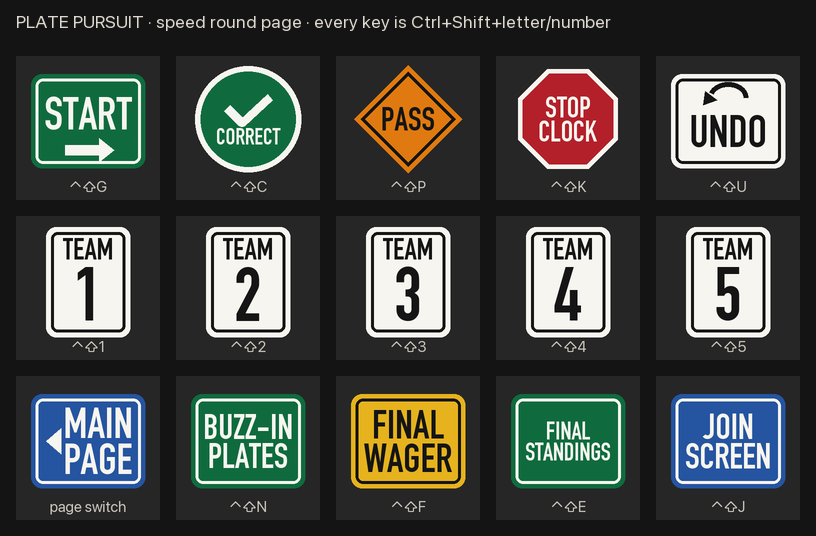
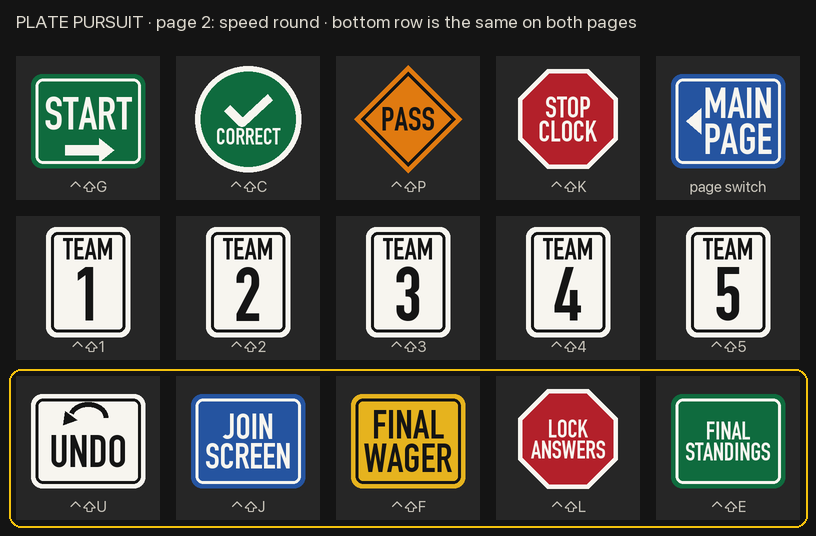
Deck: same bottom row on both pages, page switch top-right, redone main page with Double Points (Ctrl+Shift+D)

Changed region(s): [[0.0, 0.6866, 1.0, 0.9851], [0.7966, 0.1194, 0.9804, 0.3582], [0.1838, 0.0299, 0.7966, 0.0597]]

diff --git a/deck/index.html b/deck/index.html
@@ -1,6 +1,6 @@
 <!doctype html>
 <html lang="en"><head><meta charset="utf-8"><meta name="viewport" content="width=device-width, initial-scale=1">
-<title>Plate Pursuit · Stream deck</title><link rel="stylesheet" href="../style.css?v=26">
+<title>Plate Pursuit · Stream deck</title><link rel="stylesheet" href="../style.css?v=27">
 <style>
 body { background: var(--asphalt); color: #f2efe6; margin: 0; font-family: var(--font); }
 main { max-width: 1000px; margin: 0 auto; padding: 24px 16px 48px; }
@@ -9,33 +9,27 @@ p, li { line-height: 1.5; color: #d8d4c8; } a { color: var(--yellow); }
 .grid { display: grid; grid-template-columns: repeat(5, minmax(0, 1fr)); gap: 12px; }
 @media (max-width: 760px) { .grid { grid-template-columns: repeat(3, minmax(0, 1fr)); } }
 figure { margin: 0; background: rgba(255,255,255,.05); border-radius: 10px; padding: 10px; }
+figure.shared { box-shadow: inset 0 0 0 2px rgba(244,194,13,.6); }
 figure img { width: 100%; height: auto; display: block; border-radius: 8px; }
 figcaption { display: grid; gap: 4px; margin-top: 8px; font-size: 13px; color: #c9c4b8; }
 kbd { font: 800 13px var(--font); color: #fff; }
 </style></head>
 <body><main>
-<h1>Stream deck layout (5 × 3)</h1>
-<h2 style="margin-top:6px">Page 1: main</h2>
-<p>For the VSD Craft deck: 15 buttons on one page, laid out exactly like this grid. Every button sends <b>Ctrl + Shift + a letter</b>. The keys work when the control page <i>or</i> the projector window is in front (on the same computer), and you can also press them by hand.</p>
-<div class="grid"><figure><img src="go.png" alt="GO" width="144" height="144"><figcaption><kbd>Ctrl+Shift+G</kbd><span>The next step, whatever it is: show the plate and start the clock, reopen buzzers, show the next answer piece, show the next team's final answer, or go to the next plate.</span></figcaption></figure><figure><img src="correct.png" alt="CORRECT" width="144" height="144"><figcaption><kbd>Ctrl+Shift+C</kbd><span>The team that buzzed is right (also counts a plate in the speed round).</span></figcaption></figure><figure><img src="wrong.png" alt="WRONG" width="144" height="144"><figcaption><kbd>Ctrl+Shift+X</kbd><span>The team that buzzed is wrong.</span></figcaption></figure><figure><img src="reopen.png" alt="REOPEN BUZZERS" width="144" height="144"><figcaption><kbd>Ctrl+Shift+O</kbd><span>Open buzzers again after a wrong answer.</span></figcaption></figure><figure><img src="undo.png" alt="UNDO" width="144" height="144"><figcaption><kbd>Ctrl+Shift+U</kbd><span>Take back the last action.</span></figcaption></figure><figure><img src="next.png" alt="NEXT PLATE" width="144" height="144"><figcaption><kbd>Ctrl+Shift+N</kbd><span>Skip straight to the next plate.</span></figcaption></figure><figure><img src="reveal.png" alt="REVEAL ANSWER" width="144" height="144"><figcaption><kbd>Ctrl+Shift+R</kbd><span>Show the answer with no points (nobody got it).</span></figcaption></figure><figure><img src="whole.png" alt="WHOLE ANSWER" width="144" height="144"><figcaption><kbd>Ctrl+Shift+W</kbd><span>Show the whole answer at once instead of piece by piece.</span></figcaption></figure><figure><img src="pass.png" alt="PASS" width="144" height="144"><figcaption><kbd>Ctrl+Shift+P</kbd><span>Speed round: skip this plate.</span></figcaption></figure><figure><img src="speed.png" alt="SPEED ROUND" width="144" height="144"><figcaption><kbd>Ctrl+Shift+S</kbd><span>On the deck: open the speed round page (below). As a key, it sets up the speed round for the team picked under Rounds.</span></figcaption></figure><figure><img src="join.png" alt="JOIN SCREEN" width="144" height="144"><figcaption><kbd>Ctrl+Shift+J</kbd><span>Put the join screen (QR code) back on the projector.</span></figcaption></figure><figure><img src="final.png" alt="FINAL WAGER" width="144" height="144"><figcaption><kbd>Ctrl+Shift+F</kbd><span>Start the final wager plate.</span></figcaption></figure><figure><img src="lock.png" alt="LOCK ANSWERS" width="144" height="144"><figcaption><kbd>Ctrl+Shift+L</kbd><span>Final plate: stop answers now.</span></figcaption></figure><figure><img src="tie.png" alt="TIE- BREAKER" width="144" height="144"><figcaption><kbd>Ctrl+Shift+T</kbd><span>Tie-breaker plate (when teams are tied for first).</span></figcaption></figure><figure><img src="standings.png" alt="FINAL STANDINGS" width="144" height="144"><figcaption><kbd>Ctrl+Shift+E</kbd><span>Show the final standings.</span></figcaption></figure></div>
+<h1>Stream deck layout (5 × 3, two pages)</h1>
+<p>For the VSD Craft deck. Every button sends <b>Ctrl + Shift + a letter or number</b>, which works when the control page <i>or</i> the projector window is in front (same computer). The <b>bottom row is the same on both pages</b> (outlined in yellow), and the page-switch button is in the top-right corner of both.</p>
+<h2>Page 1: main</h2><div class="grid"><figure class=""><img src="go.png" alt="" width="144" height="144"><figcaption><kbd>Ctrl+Shift+G</kbd><span>The next step, whatever it is: show the plate and start the clock, reopen buzzers, show the next answer piece, show the next team's final answer, or go to the next plate.</span></figcaption></figure><figure class=""><img src="correct.png" alt="" width="144" height="144"><figcaption><kbd>Ctrl+Shift+C</kbd><span>Right answer (in the speed round: counts the plate and brings up the next).</span></figcaption></figure><figure class=""><img src="wrong.png" alt="" width="144" height="144"><figcaption><kbd>Ctrl+Shift+X</kbd><span>The team that buzzed is wrong.</span></figcaption></figure><figure class=""><img src="reopen.png" alt="" width="144" height="144"><figcaption><kbd>Ctrl+Shift+O</kbd><span>Open buzzers again after a wrong answer.</span></figcaption></figure><figure class=""><img src="speedpage.png" alt="" width="144" height="144"><figcaption><kbd>Page switch</kbd><span>Opens page 2, the speed round. (VSD Craft page switch, not a key.)</span></figcaption></figure><figure class=""><img src="next.png" alt="" width="144" height="144"><figcaption><kbd>Ctrl+Shift+N</kbd><span>Skip straight to the next plate.</span></figcaption></figure><figure class=""><img src="reveal.png" alt="" width="144" height="144"><figcaption><kbd>Ctrl+Shift+R</kbd><span>Show the answer with no points.</span></figcaption></figure><figure class=""><img src="whole.png" alt="" width="144" height="144"><figcaption><kbd>Ctrl+Shift+W</kbd><span>Show the whole answer at once instead of piece by piece.</span></figcaption></figure><figure class=""><img src="double.png" alt="" width="144" height="144"><figcaption><kbd>Ctrl+Shift+D</kbd><span>Double points on or off for the plate that's up.</span></figcaption></figure><figure class=""><img src="tie.png" alt="" width="144" height="144"><figcaption><kbd>Ctrl+Shift+T</kbd><span>Tie-breaker plate (when teams are tied for first).</span></figcaption></figure><figure class="shared"><img src="undo.png" alt="" width="144" height="144"><figcaption><kbd>Ctrl+Shift+U</kbd><span>Take back the last action.</span></figcaption></figure><figure class="shared"><img src="join.png" alt="" width="144" height="144"><figcaption><kbd>Ctrl+Shift+J</kbd><span>Join screen (QR code) on the projector.</span></figcaption></figure><figure class="shared"><img src="final.png" alt="" width="144" height="144"><figcaption><kbd>Ctrl+Shift+F</kbd><span>Start the final wager plate.</span></figcaption></figure><figure class="shared"><img src="lock.png" alt="" width="144" height="144"><figcaption><kbd>Ctrl+Shift+L</kbd><span>Final plate: stop answers now.</span></figcaption></figure><figure class="shared"><img src="standings.png" alt="" width="144" height="144"><figcaption><kbd>Ctrl+Shift+E</kbd><span>Show the final standings.</span></figcaption></figure></div>
 <h2>Page 2: speed round</h2>
-<p>A separate page for the speed round. Pick the team, press START, then CORRECT or PASS for each plate. MAIN PAGE takes you back.</p>
-<div class="grid"><figure><img src="start.png" alt="START" width="144" height="144"><figcaption><kbd>Ctrl+Shift+G</kbd><span>Start the 60 seconds (after picking a team below).</span></figcaption></figure><figure><img src="correct.png" alt="CORRECT" width="144" height="144"><figcaption><kbd>Ctrl+Shift+C</kbd><span>They got this plate; the next one comes up.</span></figcaption></figure><figure><img src="pass.png" alt="PASS" width="144" height="144"><figcaption><kbd>Ctrl+Shift+P</kbd><span>Skip this plate.</span></figcaption></figure><figure><img src="stopclock.png" alt="STOP CLOCK" width="144" height="144"><figcaption><kbd>Ctrl+Shift+K</kbd><span>End the speed round early.</span></figcaption></figure><figure><img src="undo.png" alt="UNDO" width="144" height="144"><figcaption><kbd>Ctrl+Shift+U</kbd><span>Take back the last action.</span></figcaption></figure><figure><img src="team1.png" alt="TEAM 1" width="144" height="144"><figcaption><kbd>Ctrl+Shift+1</kbd><span>Set up the speed round for team 1 (in the order of the Teams list on the control page).</span></figcaption></figure><figure><img src="team2.png" alt="TEAM 2" width="144" height="144"><figcaption><kbd>Ctrl+Shift+2</kbd><span>Set up the speed round for team 2 (in the order of the Teams list on the control page).</span></figcaption></figure><figure><img src="team3.png" alt="TEAM 3" width="144" height="144"><figcaption><kbd>Ctrl+Shift+3</kbd><span>Set up the speed round for team 3 (in the order of the Teams list on the control page).</span></figcaption></figure><figure><img src="team4.png" alt="TEAM 4" width="144" height="144"><figcaption><kbd>Ctrl+Shift+4</kbd><span>Set up the speed round for team 4 (in the order of the Teams list on the control page).</span></figcaption></figure><figure><img src="team5.png" alt="TEAM 5" width="144" height="144"><figcaption><kbd>Ctrl+Shift+5</kbd><span>Set up the speed round for team 5 (in the order of the Teams list on the control page).</span></figcaption></figure><figure><img src="back.png" alt="MAIN PAGE" width="144" height="144"><figcaption><kbd>Page switch</kbd><span>Go back to the main page of the deck (a VSD Craft page switch, not a key).</span></figcaption></figure><figure><img src="buzzin.png" alt="BUZZ-IN PLATES" width="144" height="144"><figcaption><kbd>Ctrl+Shift+N</kbd><span>Back to the buzz-in plates.</span></figcaption></figure><figure><img src="final.png" alt="FINAL WAGER" width="144" height="144"><figcaption><kbd>Ctrl+Shift+F</kbd><span>Start the final wager plate.</span></figcaption></figure><figure><img src="standings.png" alt="FINAL STANDINGS" width="144" height="144"><figcaption><kbd>Ctrl+Shift+E</kbd><span>Show the final standings.</span></figcaption></figure><figure><img src="join.png" alt="JOIN SCREEN" width="144" height="144"><figcaption><kbd>Ctrl+Shift+J</kbd><span>Join screen on the projector.</span></figcaption></figure></div>
+<p>Pick the team, press START, then CORRECT or PASS for each plate. MAIN PAGE goes back.</p><div class="grid"><figure class=""><img src="start.png" alt="" width="144" height="144"><figcaption><kbd>Ctrl+Shift+G</kbd><span>Start the 60 seconds (after picking the team).</span></figcaption></figure><figure class=""><img src="correct.png" alt="" width="144" height="144"><figcaption><kbd>Ctrl+Shift+C</kbd><span>Right answer (in the speed round: counts the plate and brings up the next).</span></figcaption></figure><figure class=""><img src="pass.png" alt="" width="144" height="144"><figcaption><kbd>Ctrl+Shift+P</kbd><span>Skip this plate.</span></figcaption></figure><figure class=""><img src="stopclock.png" alt="" width="144" height="144"><figcaption><kbd>Ctrl+Shift+K</kbd><span>End the speed round early.</span></figcaption></figure><figure class=""><img src="back.png" alt="" width="144" height="144"><figcaption><kbd>Page switch</kbd><span>Back to page 1. (VSD Craft page switch, not a key.)</span></figcaption></figure><figure class=""><img src="team1.png" alt="" width="144" height="144"><figcaption><kbd>Ctrl+Shift+1</kbd><span>Set up the speed round for team 1: the 1st team in the control page's Teams list.</span></figcaption></figure><figure class=""><img src="team2.png" alt="" width="144" height="144"><figcaption><kbd>Ctrl+Shift+2</kbd><span>Set up the speed round for team 2: the 2nd team in the control page's Teams list.</span></figcaption></figure><figure class=""><img src="team3.png" alt="" width="144" height="144"><figcaption><kbd>Ctrl+Shift+3</kbd><span>Set up the speed round for team 3: the 3rd team in the control page's Teams list.</span></figcaption></figure><figure class=""><img src="team4.png" alt="" width="144" height="144"><figcaption><kbd>Ctrl+Shift+4</kbd><span>Set up the speed round for team 4: the 4th team in the control page's Teams list.</span></figcaption></figure><figure class=""><img src="team5.png" alt="" width="144" height="144"><figcaption><kbd>Ctrl+Shift+5</kbd><span>Set up the speed round for team 5: the 5th team in the control page's Teams list.</span></figcaption></figure><figure class="shared"><img src="undo.png" alt="" width="144" height="144"><figcaption><kbd>Ctrl+Shift+U</kbd><span>Take back the last action.</span></figcaption></figure><figure class="shared"><img src="join.png" alt="" width="144" height="144"><figcaption><kbd>Ctrl+Shift+J</kbd><span>Join screen (QR code) on the projector.</span></figcaption></figure><figure class="shared"><img src="final.png" alt="" width="144" height="144"><figcaption><kbd>Ctrl+Shift+F</kbd><span>Start the final wager plate.</span></figcaption></figure><figure class="shared"><img src="lock.png" alt="" width="144" height="144"><figcaption><kbd>Ctrl+Shift+L</kbd><span>Final plate: stop answers now.</span></figcaption></figure><figure class="shared"><img src="standings.png" alt="" width="144" height="144"><figcaption><kbd>Ctrl+Shift+E</kbd><span>Show the final standings.</span></figcaption></figure></div>
 <h2>Download</h2>
-<p><a href="layout.png" download>layout.png</a> (main page) · <a href="layout-speed.png" download>layout-speed.png</a> (speed round page)</p>
-<p>Icons: <a href="go.png" download>go.png</a> · <a href="correct.png" download>correct.png</a> · <a href="wrong.png" download>wrong.png</a> · <a href="reopen.png" download>reopen.png</a> · <a href="undo.png" download>undo.png</a> · <a href="next.png" download>next.png</a> · <a href="reveal.png" download>reveal.png</a> · <a href="whole.png" download>whole.png</a> · <a href="pass.png" download>pass.png</a> · <a href="speed.png" download>speed.png</a> · <a href="join.png" download>join.png</a> · <a href="final.png" download>final.png</a> · <a href="lock.png" download>lock.png</a> · <a href="tie.png" download>tie.png</a> · <a href="standings.png" download>standings.png</a> · <a href="start.png" download>start.png</a> · <a href="stopclock.png" download>stopclock.png</a> · <a href="team1.png" download>team1.png</a> · <a href="team2.png" download>team2.png</a> · <a href="team3.png" download>team3.png</a> · <a href="team4.png" download>team4.png</a> · <a href="team5.png" download>team5.png</a> · <a href="back.png" download>back.png</a> · <a href="buzzin.png" download>buzzin.png</a></p>
-<h2>Set up each button in VSD Craft</h2>
+<p><a href="layout.png" download>layout.png</a> (page 1) · <a href="layout-speed.png" download>layout-speed.png</a> (page 2)</p>
+<p>Icons: <a href="back.png" download>back.png</a> · <a href="correct.png" download>correct.png</a> · <a href="double.png" download>double.png</a> · <a href="final.png" download>final.png</a> · <a href="go.png" download>go.png</a> · <a href="join.png" download>join.png</a> · <a href="lock.png" download>lock.png</a> · <a href="next.png" download>next.png</a> · <a href="pass.png" download>pass.png</a> · <a href="reopen.png" download>reopen.png</a> · <a href="reveal.png" download>reveal.png</a> · <a href="speedpage.png" download>speedpage.png</a> · <a href="standings.png" download>standings.png</a> · <a href="start.png" download>start.png</a> · <a href="stopclock.png" download>stopclock.png</a> · <a href="team1.png" download>team1.png</a> · <a href="team2.png" download>team2.png</a> · <a href="team3.png" download>team3.png</a> · <a href="team4.png" download>team4.png</a> · <a href="team5.png" download>team5.png</a> · <a href="tie.png" download>tie.png</a> · <a href="undo.png" download>undo.png</a> · <a href="whole.png" download>whole.png</a> · <a href="wrong.png" download>wrong.png</a></p>
+<h2>Set it up in VSD Craft</h2>
 <ol>
-<li>Drag the <b>Hotkey</b> action onto the button (it's in the System group).</li>
-<li>Click the hotkey box and press the combination shown above, for example <b>Ctrl + Shift + G</b> for GO. On a Mac that's the <b>Control</b> key, not Command.</li>
-<li>Click the button's icon and choose the matching PNG from this page.</li>
+<li>For each key button: drag the <b>Hotkey</b> action onto it (System group), click the hotkey box and press the combination shown, e.g. <b>Ctrl + Shift + G</b>. On a Mac that's the <b>Control</b> key, not Command.</li>
+<li>Click the button's icon and choose the matching PNG.</li>
+<li>Make page 2 (a new page or folder in VSD Craft). On page 1, set the top-right <b>SPEED ROUND</b> button to open it; on page 2, set the top-right <b>MAIN PAGE</b> button to go back.</li>
+<li>Copy the bottom row from page 1 to page 2 so they match exactly.</li>
 </ol>
-<h2>Link the two pages</h2>
-<ol>
-<li>On page 1, make the <b>SPEED ROUND</b> button open a new page or folder (VSD Craft's page or folder action) instead of a hotkey, and give it the speed-round icon.</li>
-<li>Set up page 2 like the grid above. The <b>MAIN PAGE</b> button is VSD Craft's "back" / page-switch action, so it doesn't need a key.</li>
-<li>The TEAM buttons send Ctrl + Shift + 1 to 5. Team 1 is the top team in the control page's Teams list (the number on its button there).</li>
-</ol>
-<p>Then click into the control page (or the projector window) once, so the browser is the app in front, and the buttons will run the game.</p>
+<p>Then click into the control page (or projector window) once, so the browser is in front, and the buttons run the game.</p>
 <p><a href="../host.html">Back to the control page</a></p>
 </main></body></html>

diff --git a/host.html b/host.html
@@ -4,7 +4,7 @@
 <meta charset="utf-8">
 <meta name="viewport" content="width=device-width, initial-scale=1">
 <title>Plate Pursuit · Host</title>
-<link rel="stylesheet" href="style.css?v=26">
+<link rel="stylesheet" href="style.css?v=27">
 </head>
 <body class="host-page">
 <div class="host">
@@ -92,15 +92,16 @@
       <div><kbd>⌃⇧T</kbd> tie-breaker plate</div>
       <div><kbd>⌃⇧E</kbd> final standings</div>
       <div><kbd>⌃⇧1</kbd>–<kbd>⌃⇧5</kbd> set up the speed round for team 1–5 (order of the Teams list)</div>
-      <div><kbd>⌃⇧K</kbd> stop the speed-round clock</div></div>
+      <div><kbd>⌃⇧K</kbd> stop the speed-round clock</div>
+      <div><kbd>⌃⇧D</kbd> double points on or off for the plate that's up</div></div>
   </div>
 </div>
 
-<script src="mode.js?v=26"></script>
+<script src="mode.js?v=27"></script>
 <script src="https://cdn.jsdelivr.net/npm/mqtt@5.10.1/dist/mqtt.min.js"></script>
-<script src="engine.js?v=26"></script>
-<script src="states.js?v=26"></script>
-<script src="shared.js?v=26"></script>
+<script src="engine.js?v=27"></script>
+<script src="states.js?v=27"></script>
+<script src="shared.js?v=27"></script>
 <script>
 const $ = id => document.getElementById(id);
 const act = PP.act;
@@ -300,6 +301,7 @@ function goStep(s) {   // the one-button "next step"
 function runKey(name) {
   const s = PP.state; if (!s || !name) return;
   if (name === 'go') goStep(s);
+  else if (name === 'double') { if (s.cur != null) act('toggleDouble', { index: s.cur }); }   // the plate up now
   else if (name === 'speed') { if ($('speedTeam').value) act('speedReady', { teamId: $('speedTeam').value }); }
   else if (/^speed\d$/.test(name)) {   // speed round for team 1–5 (in the order of the Teams list)
     const t = s.teams[Number(name.slice(5)) - 1]; if (!t) return;

diff --git a/index.html b/index.html
@@ -1,8 +1,8 @@
 <!doctype html>
 <html lang="en"><head><meta charset="utf-8"><meta name="viewport" content="width=device-width, initial-scale=1">
-<title>Plate Pursuit</title><link rel="stylesheet" href="style.css?v=26"></head>
+<title>Plate Pursuit</title><link rel="stylesheet" href="style.css?v=27"></head>
 <body class="landing-page"><div class="landing"><div>
-<div class="plate-wrap"><script src="mode.js?v=26"></script><script src="shared.js?v=26"></script><script>document.write(plateHTML('PL8 PRST', {bottom:'CRACK THE CODE'}))</script></div>
+<div class="plate-wrap"><script src="mode.js?v=27"></script><script src="shared.js?v=27"></script><script>document.write(plateHTML('PL8 PRST', {bottom:'CRACK THE CODE'}))</script></div>
 <p>Open <b>Host</b> on the laptop, then click <b>Open projector window</b> there and drag it to the big screen. Players scan the QR code on the projector to join on their phones.</p>
 <div class="row"><a class="btn primary" href="host.html">Host</a><a class="btn gold" href="display.html">Projector</a><a class="btn" href="play.html">Phone buzzer</a><a class="btn" href="stage.html">Host script</a><a class="btn" href="pointer.html">Pointer</a></div>
 </div></div></body></html>

diff --git a/shared.js b/shared.js
@@ -278,7 +278,7 @@ function ppShownScore(s, t) { return ppFinShown(s, t.id) ? t.score : (s.fin.base
 // ---- keyboard shortcuts (stream deck): Ctrl+Shift+letter -> what it does
 const PP_KEYS = { KeyG: 'go', KeyC: 'correct', KeyX: 'wrong', KeyO: 'reopen', KeyU: 'undo', KeyN: 'next', KeyR: 'reveal', KeyW: 'stepAll',
   KeyP: 'pass', KeyS: 'speed', KeyJ: 'lobby', KeyF: 'finalStart', KeyL: 'finalLock', KeyT: 'tiebreak', KeyE: 'final',
-  KeyK: 'speedStop', Digit1: 'speed1', Digit2: 'speed2', Digit3: 'speed3', Digit4: 'speed4', Digit5: 'speed5' };   // speed round page
+  KeyD: 'double', KeyK: 'speedStop', Digit1: 'speed1', Digit2: 'speed2', Digit3: 'speed3', Digit4: 'speed4', Digit5: 'speed5' };   // speed round page
 function ppKeyName(e) { return e.ctrlKey && e.shiftKey && !e.metaKey && !e.altKey ? PP_KEYS[e.code] || null : null; }
 const _keyChan = typeof BroadcastChannel !== 'undefined' ? new BroadcastChannel('plate-pursuit-keys') : null;
 // projector / crew windows on the same computer: hand shortcut presses to the control page

diff --git a/display.html b/display.html
@@ -4,7 +4,7 @@
 <meta charset="utf-8">
 <meta name="viewport" content="width=device-width, initial-scale=1">
 <title>Plate Pursuit · Projector</title>
-<link rel="stylesheet" href="style.css?v=26">
+<link rel="stylesheet" href="style.css?v=27">
 <script src="https://cdnjs.cloudflare.com/ajax/libs/qrcodejs/1.0.0/qrcode.min.js"></script>
 </head>
 <body class="display-page">
@@ -16,10 +16,10 @@
 <div class="unlock" id="unlock"><div class="sign green">Click to start the projector<small>Turns on sound and goes full screen</small></div></div>
 <div class="conn" id="conn"></div>
 
-<script src="mode.js?v=26"></script>
+<script src="mode.js?v=27"></script>
 <script src="https://cdn.jsdelivr.net/npm/mqtt@5.10.1/dist/mqtt.min.js"></script>
-<script src="states.js?v=26"></script>
-<script src="shared.js?v=26"></script>
+<script src="states.js?v=27"></script>
+<script src="shared.js?v=27"></script>
 <script>
 const $ = id => document.getElementById(id);
 let lastEv = null, lastKey = '', lastPlateKey = '';

diff --git a/pointer.html b/pointer.html
@@ -5,7 +5,7 @@
 <meta name="viewport" content="width=device-width, initial-scale=1, maximum-scale=1">
 <meta name="theme-color" content="#262626">
 <title>Plate Pursuit · Pointer</title>
-<link rel="stylesheet" href="style.css?v=26">
+<link rel="stylesheet" href="style.css?v=27">
 </head>
 <body class="crew-page">
 <div class="pt-wrap" id="app">
@@ -15,10 +15,10 @@
   <ol class="cr-pieces pt-list" id="pieces"></ol>
   <div class="cr-conn" id="conn"></div>
 </div>
-<script src="mode.js?v=26"></script>
+<script src="mode.js?v=27"></script>
 <script src="https://cdn.jsdelivr.net/npm/mqtt@5.10.1/dist/mqtt.min.js"></script>
-<script src="states.js?v=26"></script>
-<script src="shared.js?v=26"></script>
+<script src="states.js?v=27"></script>
+<script src="shared.js?v=27"></script>
 <script>
 const $ = id => document.getElementById(id);
 if (PP.needRoom('POINTER')) throw new Error('waiting for room code');

diff --git a/stage.html b/stage.html
@@ -5,7 +5,7 @@
 <meta name="viewport" content="width=device-width, initial-scale=1">
 <meta name="theme-color" content="#262626">
 <title>Plate Pursuit · Host script</title>
-<link rel="stylesheet" href="style.css?v=26">
+<link rel="stylesheet" href="style.css?v=27">
 </head>
 <body class="crew-page">
 <div class="crew-wrap" id="app">
@@ -18,10 +18,10 @@
   <div class="cr-scores" id="scores"></div>
   <div class="cr-conn" id="conn"></div>
 </div>
-<script src="mode.js?v=26"></script>
+<script src="mode.js?v=27"></script>
 <script src="https://cdn.jsdelivr.net/npm/mqtt@5.10.1/dist/mqtt.min.js"></script>
-<script src="states.js?v=26"></script>
-<script src="shared.js?v=26"></script>
+<script src="states.js?v=27"></script>
+<script src="shared.js?v=27"></script>
 <script>
 const $ = id => document.getElementById(id);
 if (PP.needRoom('HOST SCRIPT')) throw new Error('waiting for room code');

diff --git a/play.html b/play.html
@@ -5,13 +5,13 @@
 <meta name="viewport" content="width=device-width, initial-scale=1, maximum-scale=1, user-scalable=no">
 <meta name="theme-color" content="#0e1726">
 <title>Plate Pursuit · Buzzer</title>
-<link rel="stylesheet" href="style.css?v=26">
+<link rel="stylesheet" href="style.css?v=27">
 </head>
 <body class="phone-page">
 <div class="phone" id="app"></div>
-<script src="mode.js?v=26"></script>
+<script src="mode.js?v=27"></script>
 <script src="https://cdn.jsdelivr.net/npm/mqtt@5.10.1/dist/mqtt.min.js"></script>
-<script src="shared.js?v=26"></script>
+<script src="shared.js?v=27"></script>
 <script>
 const app = document.getElementById('app');
 if (PP.needRoom('JOIN THE GAME')) throw new Error('waiting for room code');
